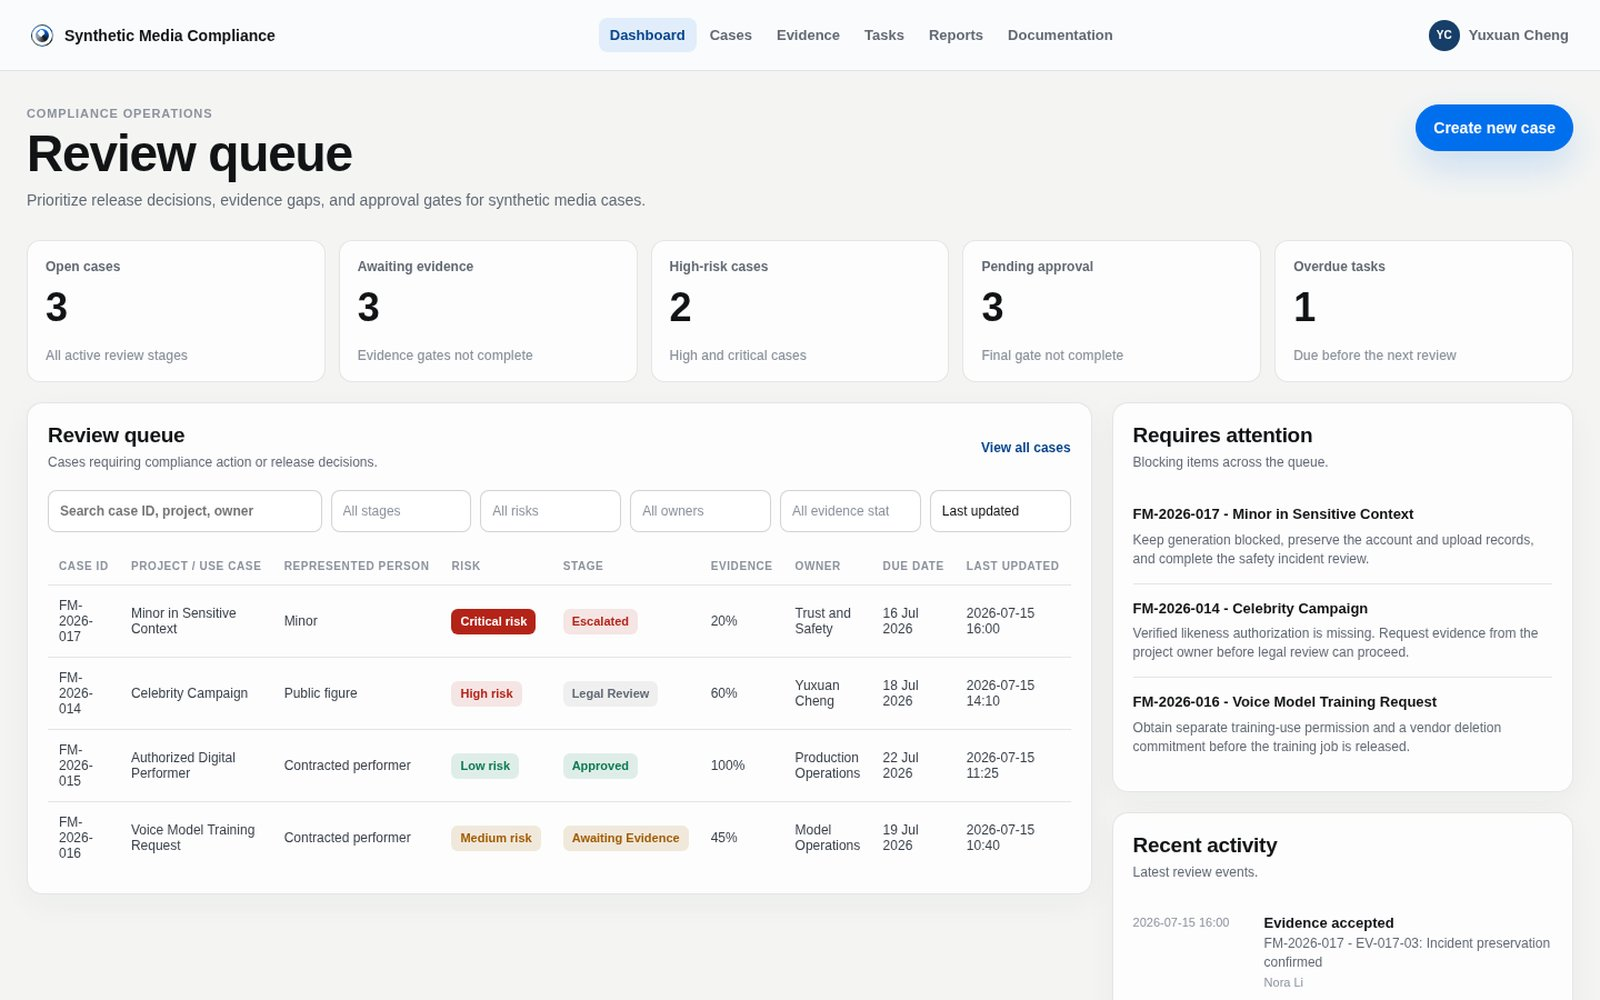
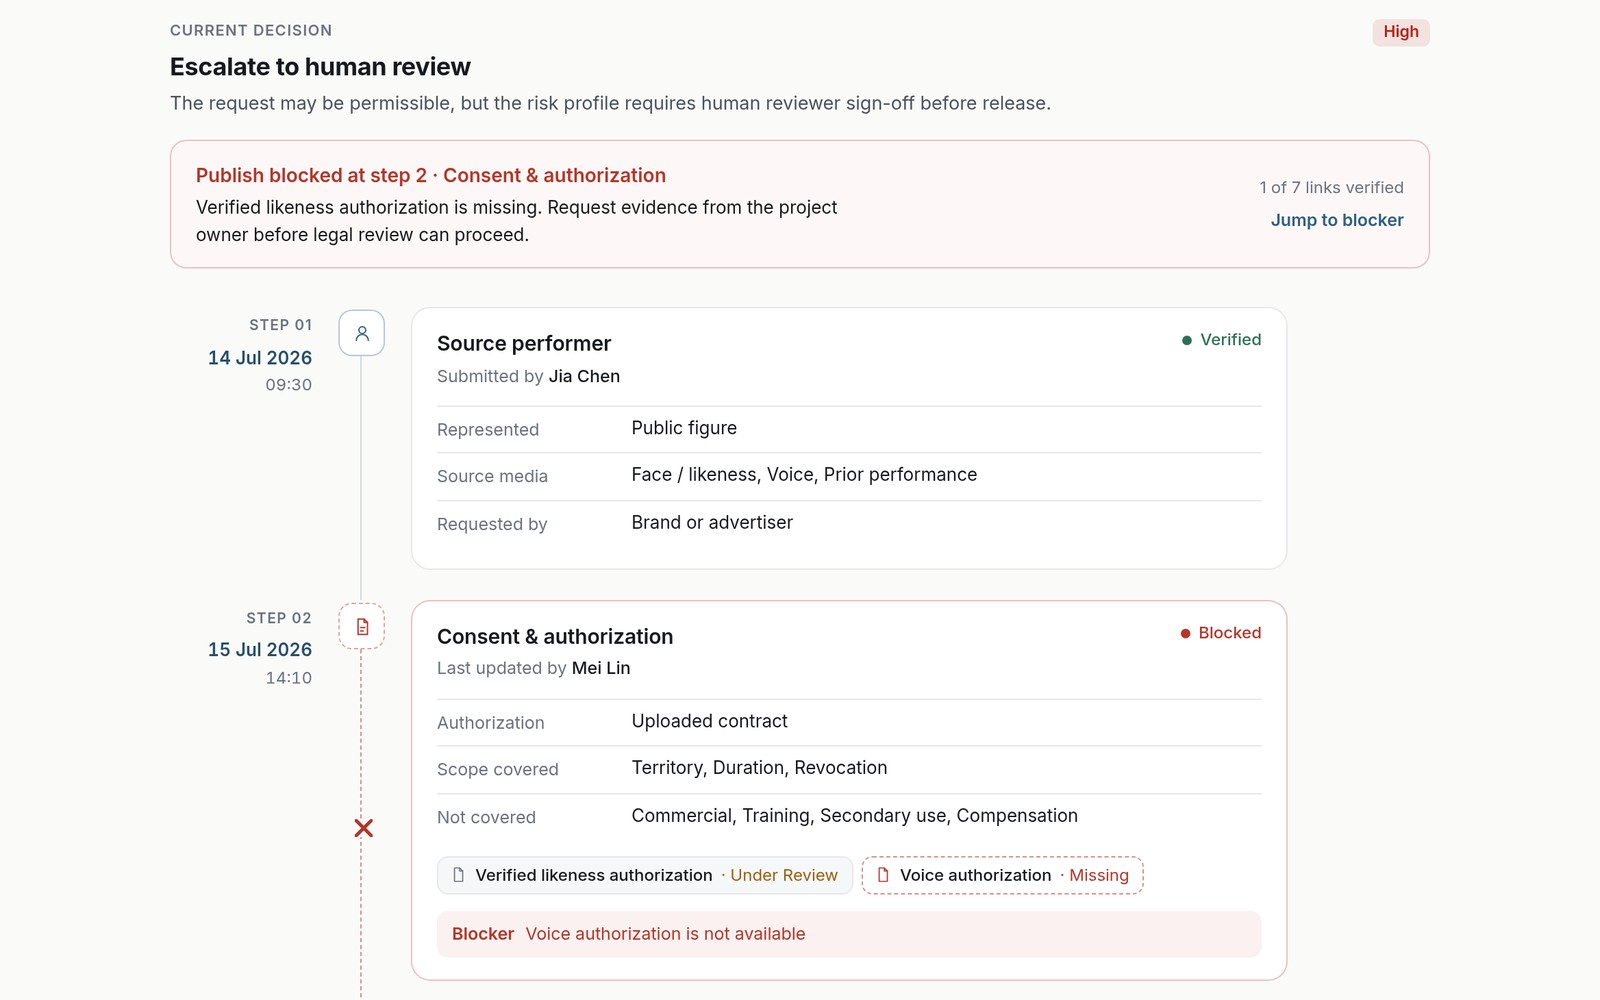
Update AI Actor thumbnail to provenance chain view of live demo

diff --git a/src/data/portfolio.ts b/src/data/portfolio.ts
@@ -22,7 +22,7 @@ export const featuredProjects: PortfolioProject[] = [
     type: "Privacy Engineering",
     tags: ["AI Governance", "Synthetic Media", "Case Management"],
     href: "/work/ai-generated-actor-compliance",
-    image: { src: "/images/work/ai-actor-demo.jpg", alt: "Review queue screen from the live compliance workspace demo" },
+    image: { src: "/images/work/ai-actor-demo.jpg", alt: "Provenance chain for case FM-2026-014 in the live demo, with publishing blocked at the consent and authorization step" },
     size: "hero",
     visual: "actor",
   },
